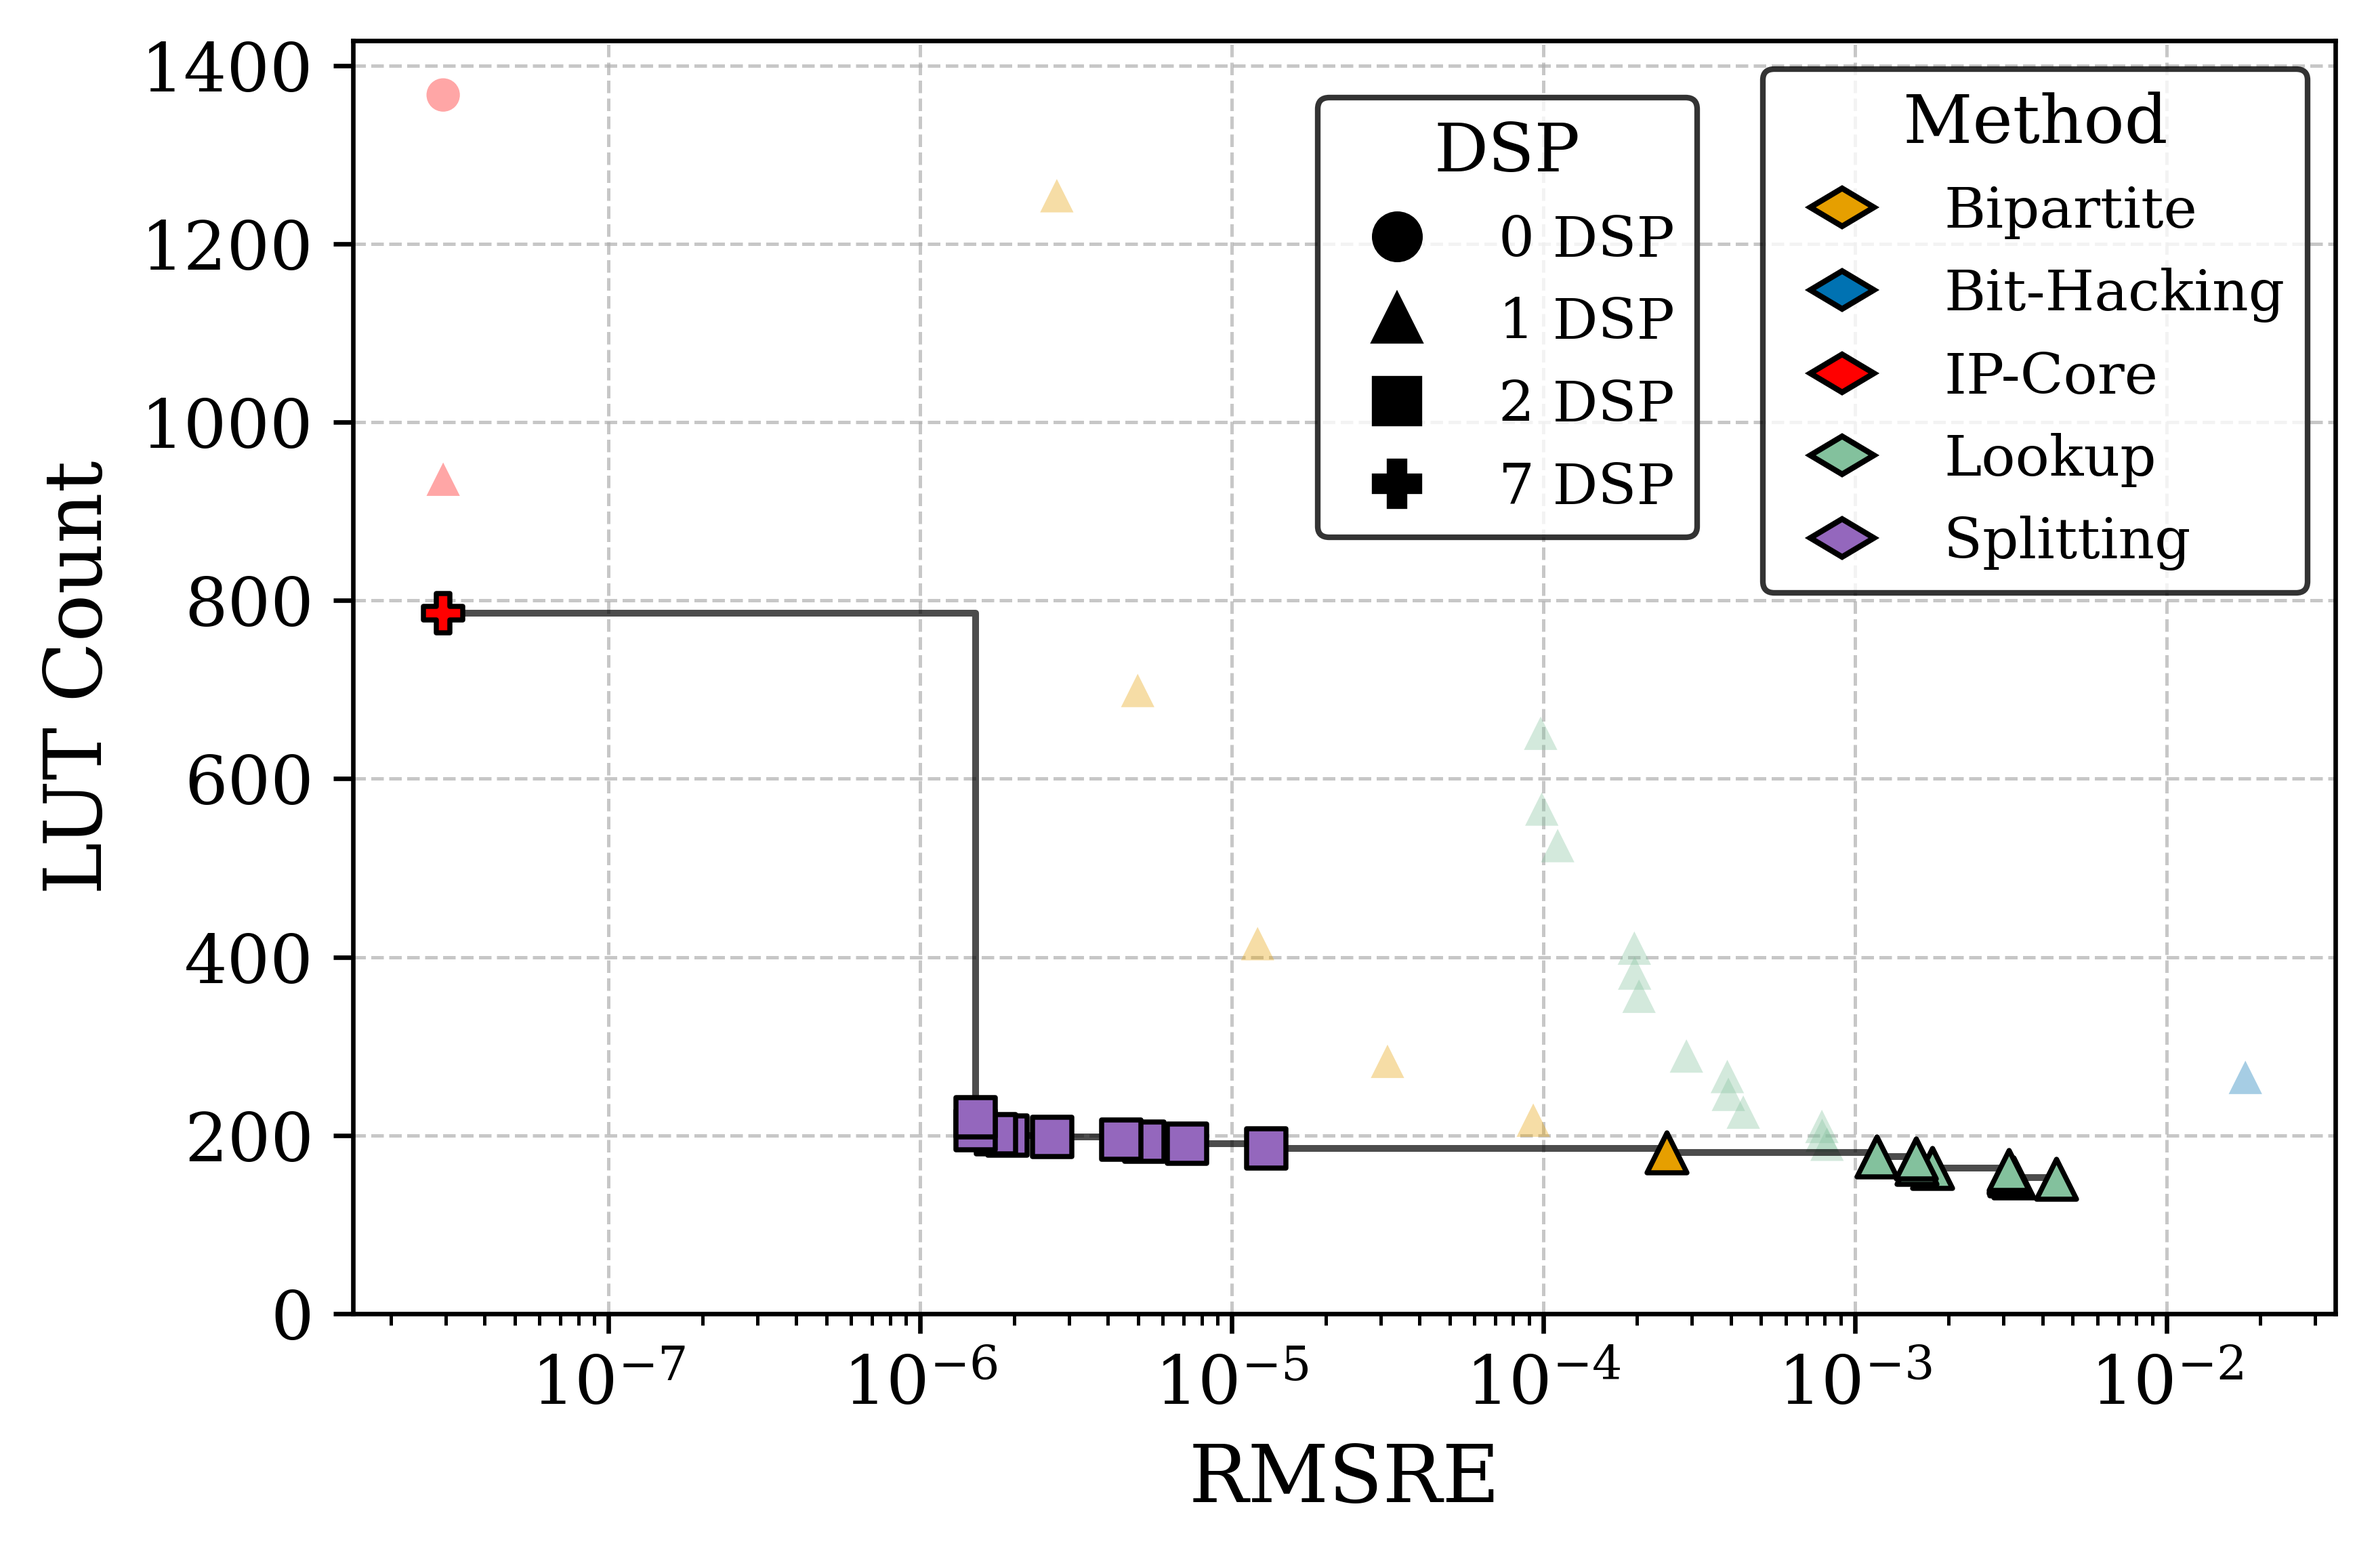
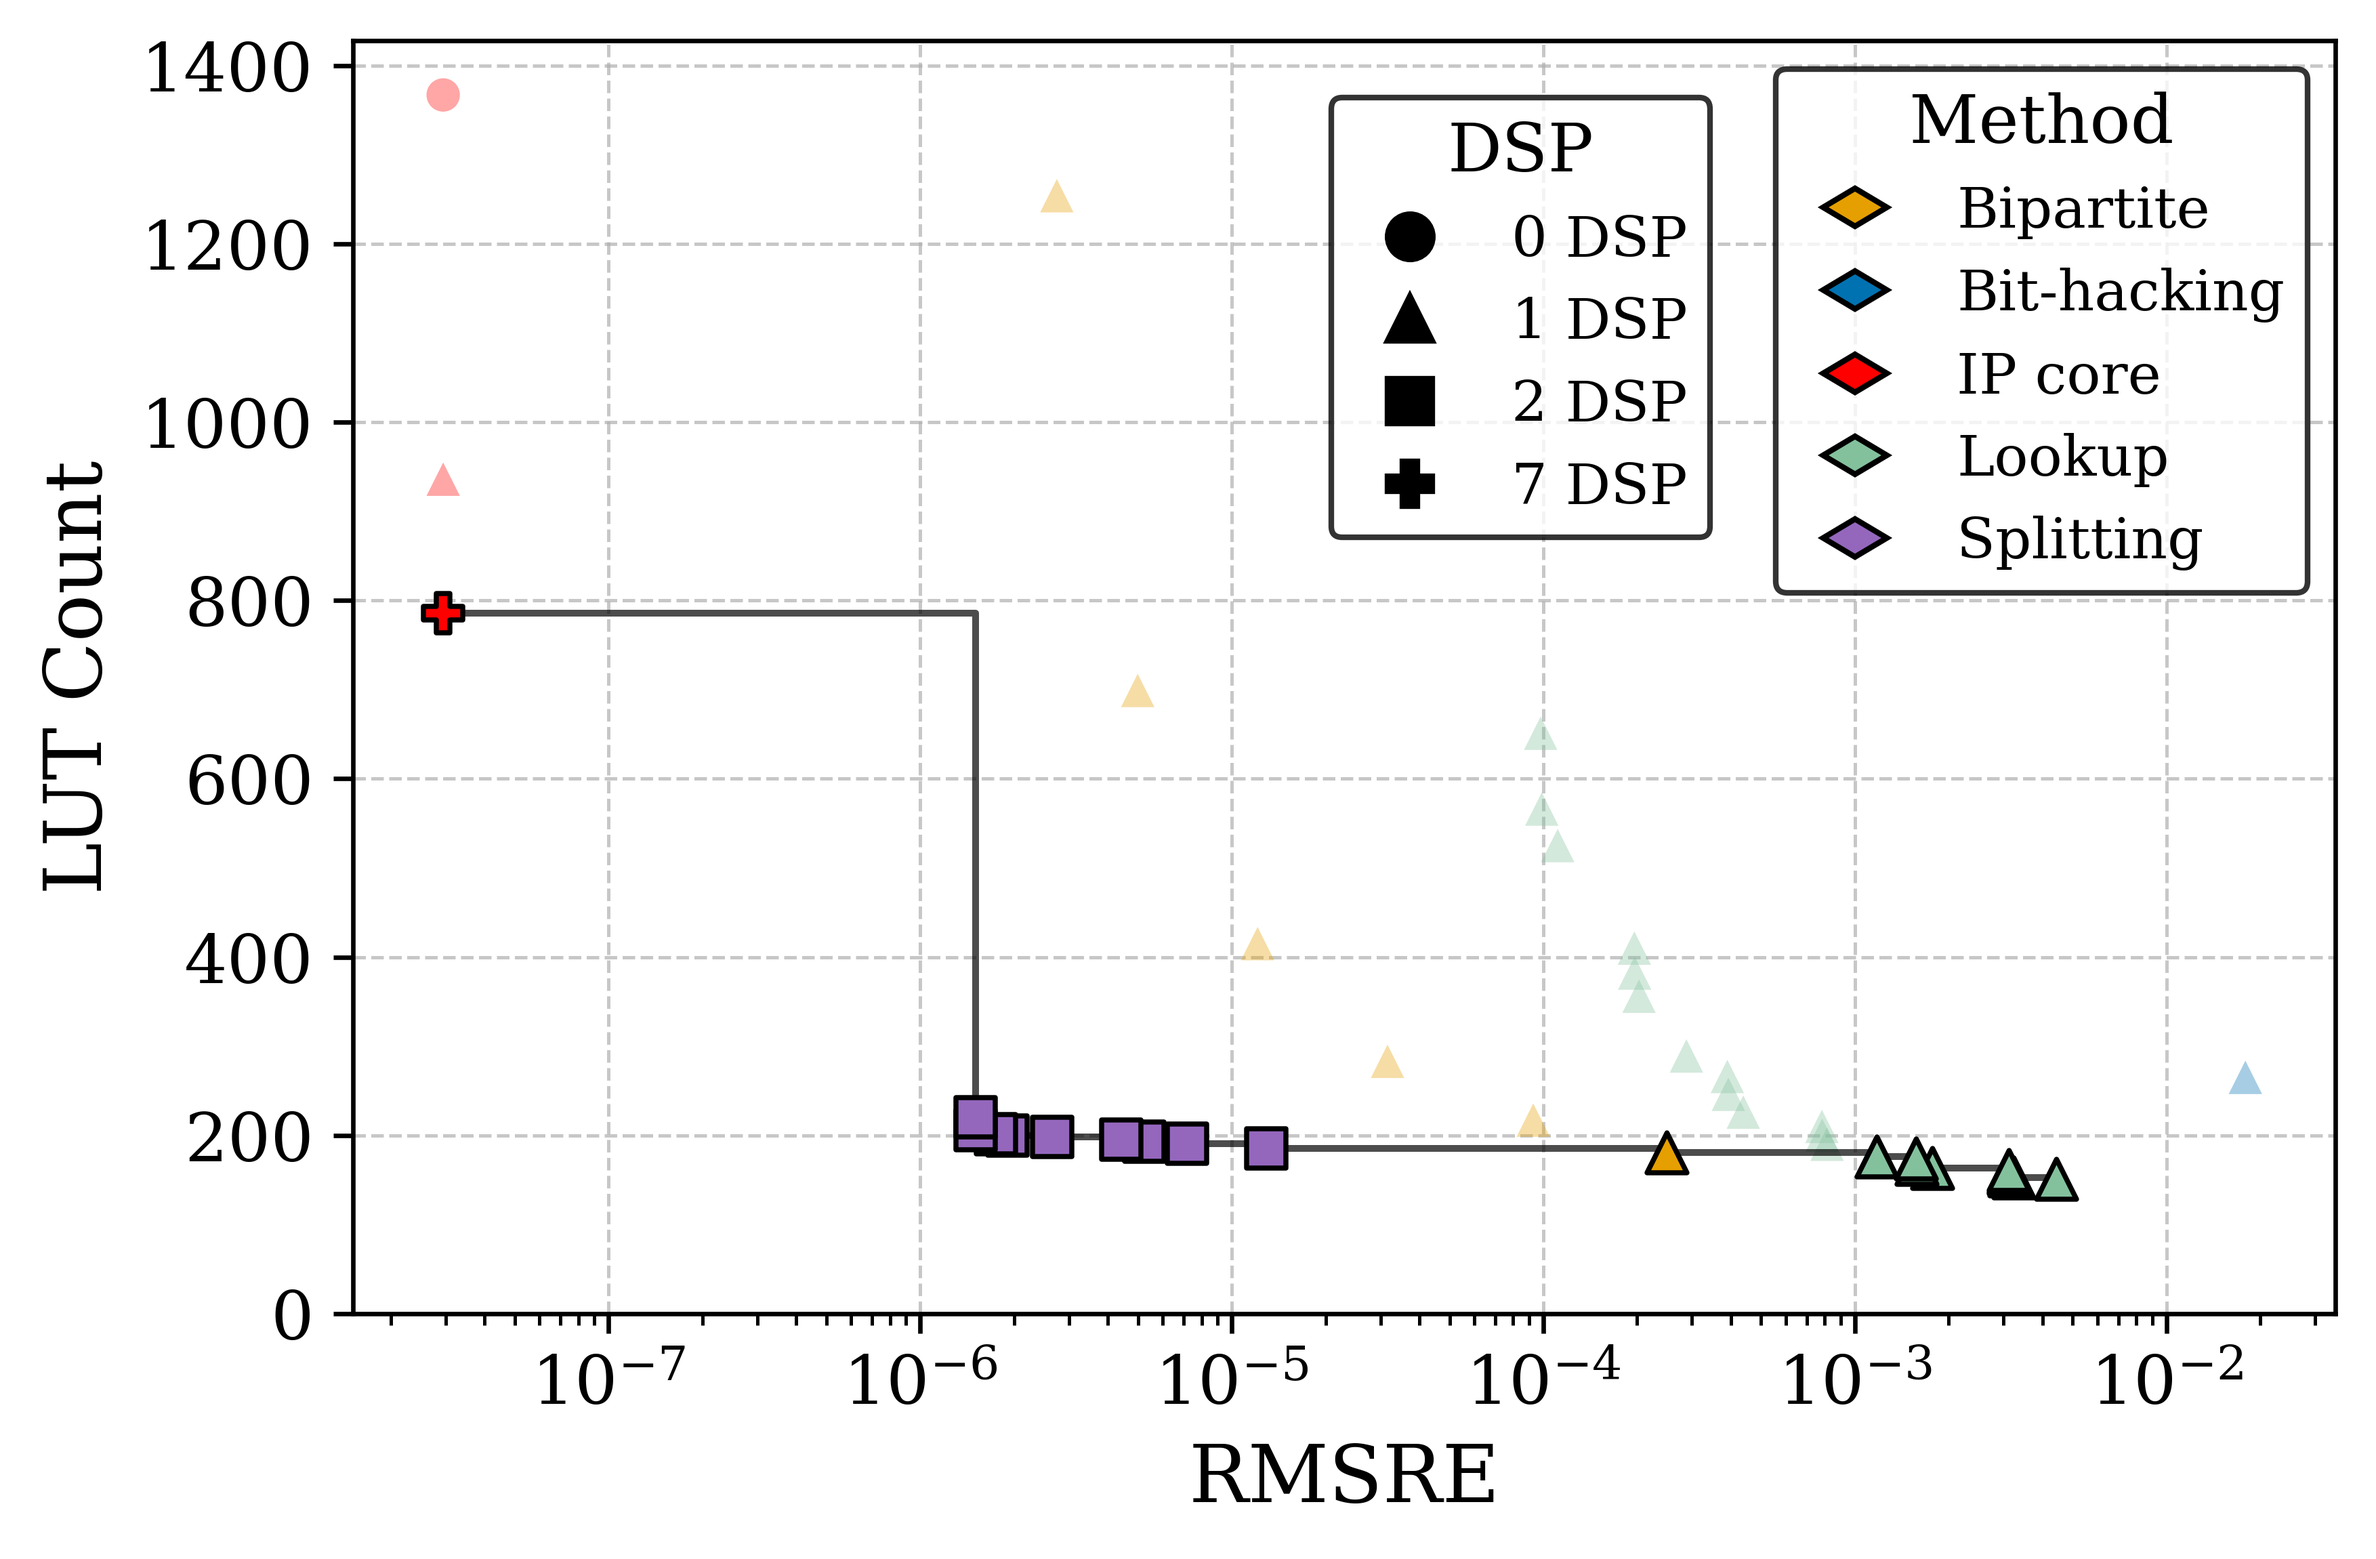
m

Changed region(s): [[0.5284, 0.0617, 0.9324, 0.3703], [0.8081, 0.0617, 0.9324, 0.0926]]

diff --git a/evaluation/exp/pareto/scripts/generate_combined.py b/evaluation/exp/pareto/scripts/generate_combined.py
@@ -34,8 +34,8 @@ import pandas as pd
 # notice, so it is picked up automatically once its data lands.
 METHODS: dict[str, str] = {
     "bipartite": "Bipartite",
-    "bit_hacking": "Bit-Hacking",
-    "ip_core": "IP-Core",
+    "bit_hacking": "Bit-hacking",
+    "ip_core": "IP core",
     "lookup": "Lookup",
     "splitting": "Splitting",
 }

diff --git a/evaluation/exp/pareto/scripts/plots.py b/evaluation/exp/pareto/scripts/plots.py
@@ -34,8 +34,8 @@ from matplotlib.transforms import Affine2D
 
 METHOD_TO_COLOR: dict[str, str] = {
     "Bipartite": "#E69F00",
-    "Bit-Hacking": "#0072B2",
-    "IP-Core": "red",
+    "Bit-hacking": "#0072B2",
+    "IP core": "red",
     "Lookup": "#83C19D",
     "Splitting": "#9467bd",
 }

diff --git a/evaluation/rsqrt/pareto/scripts/generate_combined.py b/evaluation/rsqrt/pareto/scripts/generate_combined.py
@@ -32,8 +32,8 @@ import pandas as pd
 # the folder<->label mapping is defined.
 METHODS: dict[str, str] = {
     "bipartite": "Bipartite",
-    "bit_hacking": "Bit-Hacking",
-    "ip_core": "IP-Core",
+    "bit_hacking": "Bit-hacking",
+    "ip_core": "IP core",
     "lookup": "Lookup",
 }
 

diff --git a/evaluation/rsqrt/pareto/scripts/plots.py b/evaluation/rsqrt/pareto/scripts/plots.py
@@ -34,8 +34,8 @@ from matplotlib.transforms import Affine2D
 
 METHOD_TO_COLOR: dict[str, str] = {
     "Bipartite": "#E69F00",
-    "Bit-Hacking": "#56B4E9",
-    "IP-Core": "red",
+    "Bit-hacking": "#56B4E9",
+    "IP core": "red",
     "Lookup": "#83C19D",
 }
 

diff --git a/evaluation/rec/pareto/scripts/generate_combined.py b/evaluation/rec/pareto/scripts/generate_combined.py
@@ -34,7 +34,7 @@ import pandas as pd
 # notice, so it is picked up automatically once its data lands.
 METHODS: dict[str, str] = {
     "bipartite": "Bipartite",
-    "ip_core": "IP-Core",
+    "ip_core": "IP core",
     "lookup": "Lookup",
 }
 

diff --git a/evaluation/rec/pareto/scripts/plots.py b/evaluation/rec/pareto/scripts/plots.py
@@ -34,7 +34,7 @@ from matplotlib.transforms import Affine2D
 
 METHOD_TO_COLOR: dict[str, str] = {
     "Bipartite": "#E69F00",
-    "IP-Core": "red",
+    "IP core": "red",
     "Lookup": "#83C19D",
 }
 
